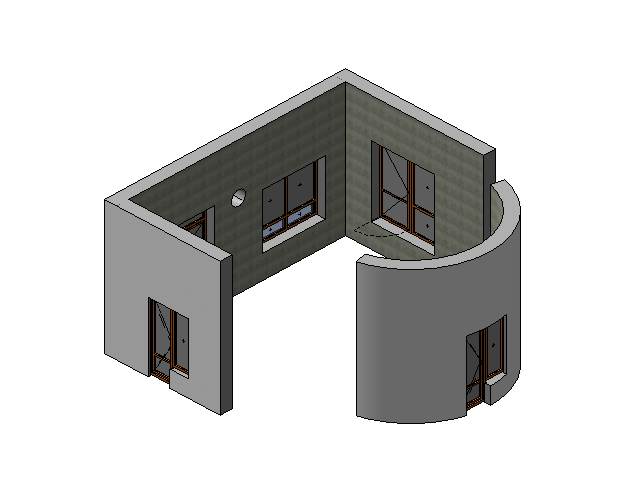
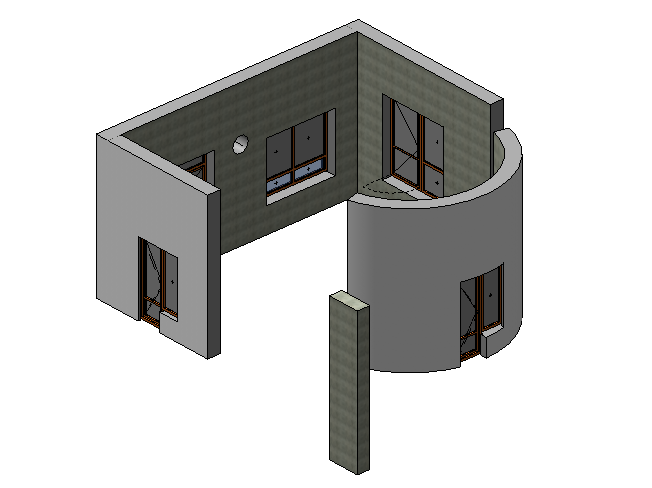
Add family geometry

Changed region(s): [[0.1197, 0.0312, 0.8378, 0.9979]]

diff --git a/RevitGeometryExporter/ExportGeometryToXml.cs b/RevitGeometryExporter/ExportGeometryToXml.cs
@@ -26,16 +26,51 @@ namespace RevitGeometryExporter
                     if (geometryObject is Solid solid)
                     {
                         foreach (Face face in solid.Faces)
-                        {
                             foreach (EdgeArray edgeArray in face.EdgeLoops)
-                            {
                                 foreach (Edge edge in edgeArray)
-                                {
                                     curves.Add(edge.AsCurve());
+                    }
+                }
+            }
+            ExportCurves(curves, header);
+        }
+
+        public static void ExportFamilyInstancesByFaces(List<FamilyInstance> families, string header, bool includeNonVisibleObjects)
+        {
+            Options options = new Options
+            {
+                IncludeNonVisibleObjects = includeNonVisibleObjects
+            };
+            List<Curve> curves = new List<Curve>();
+            foreach (FamilyInstance familyInstance in families)
+            {
+                foreach (GeometryObject geometryObject in familyInstance.get_Geometry(options))
+                {
+                    GeometryInstance geometryInstance = geometryObject as GeometryInstance;
+                    if (geometryInstance != null)
+                    {
+                        GeometryElement instanceGeometry = geometryInstance.GetInstanceGeometry();
+                        if (instanceGeometry != null)
+                        {
+                            foreach (GeometryObject o in instanceGeometry)
+                            {
+                                if (o is Solid solid)
+                                {
+                                    foreach (Face solidFace in solid.Faces)
+                                        foreach (EdgeArray edgeArray in solidFace.EdgeLoops)
+                                            foreach (Edge edge in edgeArray)
+                                                curves.Add(edge.AsCurve());
+                                }
+                                if (o is Face face)
+                                {
+                                    foreach (EdgeArray edgeArray in face.EdgeLoops)
+                                        foreach (Edge edge in edgeArray)
+                                            curves.Add(edge.AsCurve());
                                 }
                             }
                         }
                     }
+
                 }
             }
             ExportCurves(curves, header);
@@ -53,16 +88,6 @@ namespace RevitGeometryExporter
                 {
                     faces.Add(solidFace);
                 }
-            }
-            if (faces.Any())
-                ExportFaces(faces, header);
-        }
-        public static void ExportSolidByFaces(Solid solid, string header)
-        {
-            List<Face> faces = new List<Face>();
-            foreach (Face solidFace in solid.Faces)
-            {
-                faces.Add(solidFace);
             }
             if (faces.Any())
                 ExportFaces(faces, header);

diff --git a/RevitTestCommand/TextExportGeometryCommand.cs b/RevitTestCommand/TextExportGeometryCommand.cs
@@ -34,6 +34,19 @@ namespace RevitTestCommand
                     }
                     ExportGeometryToXml.ExportWallsByFaces(wallsToExport, "walls");
                 }
+                // families
+                selectionResult = selection.PickObjects(ObjectType.Element, "Select families:");
+                if (selectionResult.Any())
+                {
+                    List<FamilyInstance> familyInstances = new List<FamilyInstance>();
+                    foreach (Reference reference in selectionResult)
+                    {
+                        Element el = doc.GetElement(reference);
+                        if(el is FamilyInstance familyInstance)
+                            familyInstances.Add(familyInstance);
+                    }
+                    ExportGeometryToXml.ExportFamilyInstancesByFaces(familyInstances, "families", false);
+                }
             }
             catch (OperationCanceledException)
             {
